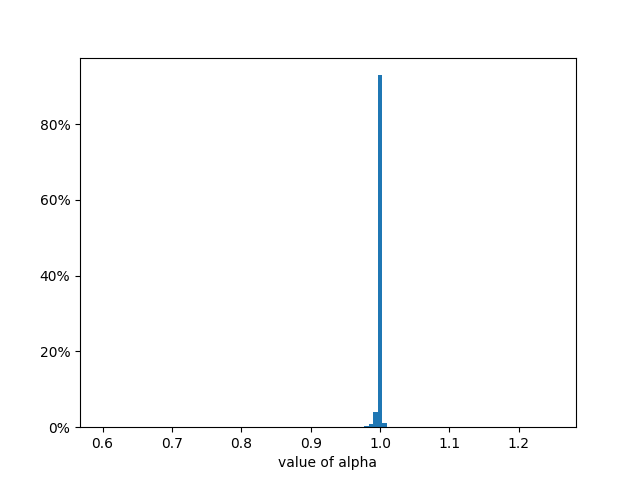
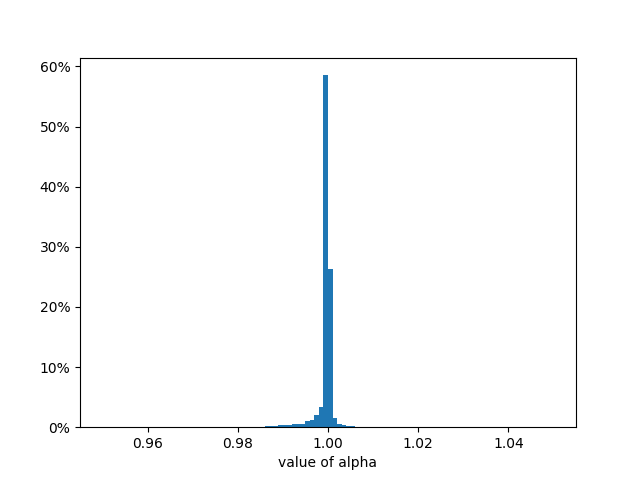
update

diff --git a/Ex3_square_harmonic_adaptive/harmonic_problem_v2.py b/Ex3_square_harmonic_adaptive/harmonic_problem_v2.py
@@ -85,7 +85,7 @@ c_std=statistics.stdev(c_list)
 PETSc.Sys.Print("Mean of the alpha is % s, the standard deviation is %s " %(alpha_mean,alpha_std))
 PETSc.Sys.Print("Mean of the c is % s, the standard deviation is %s " %(c_mean,c_std))
 
-plt.hist(alpha_list,bins=100,range=[0.6,1.25],weights=np.ones(len(alpha_list))/len(alpha_list))
+plt.hist(alpha_list,bins=100,range=[0.95,1.05],weights=np.ones(len(alpha_list))/len(alpha_list))
 plt.gca().yaxis.set_major_formatter(PercentFormatter(1))
 plt.xlabel('value of alpha')
 plt.savefig(f"figures/distribution_alpha_n{n}_N{N}_v2.png")
